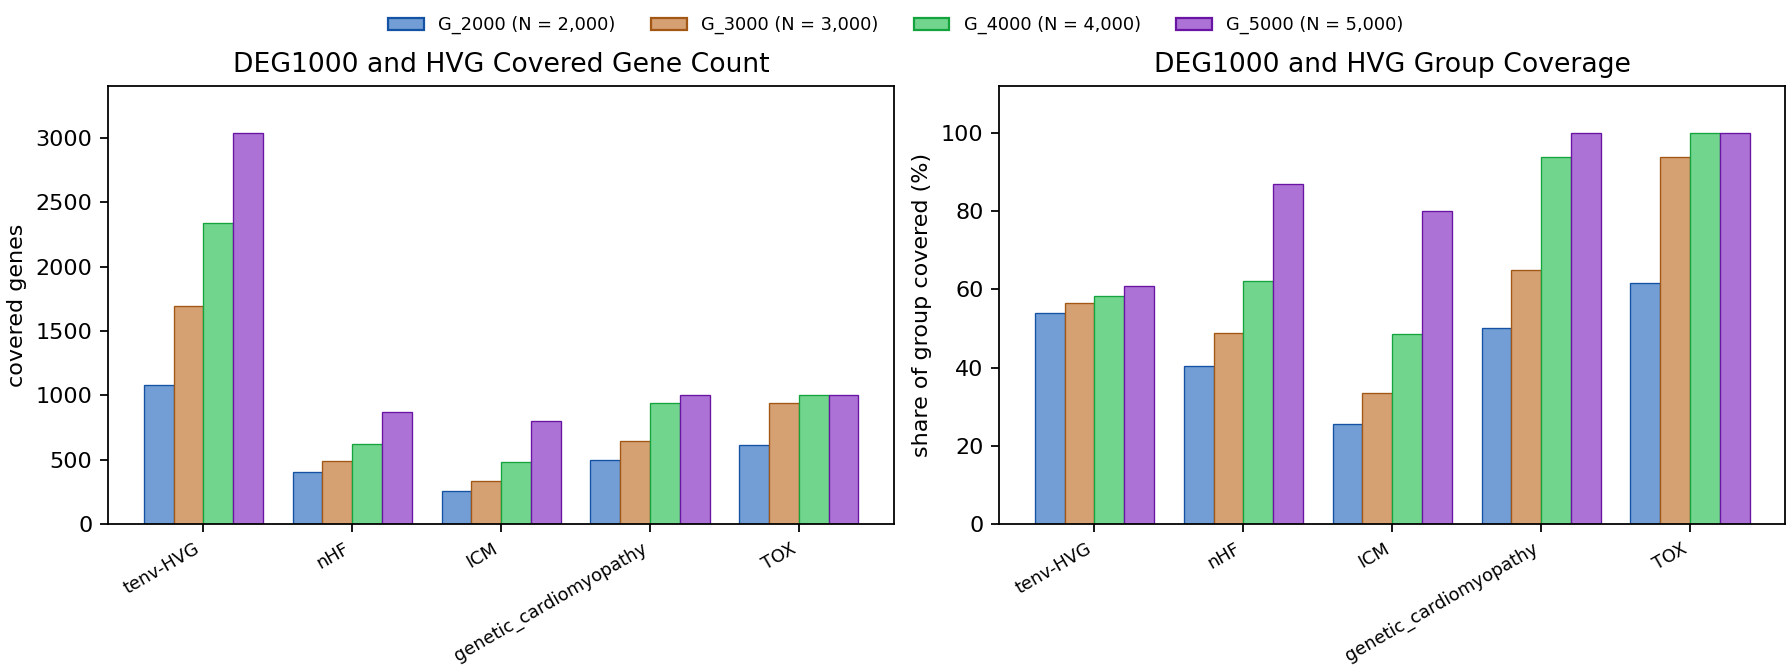
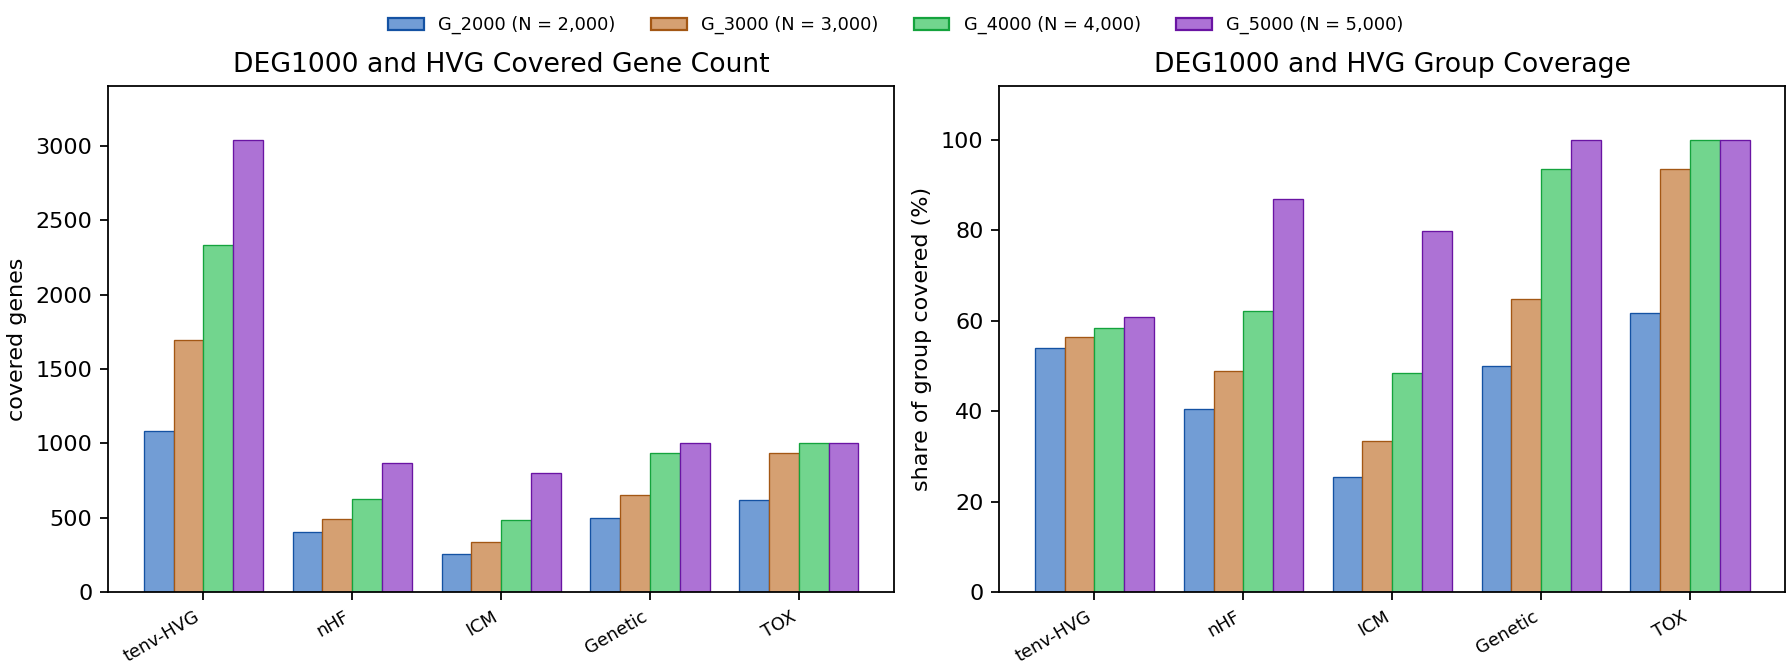
Display Genetic in Stage 2 gene-axis summaries

diff --git a/stage2/01_bases/execution/make_gene_axis_docx.py b/stage2/01_bases/execution/make_gene_axis_docx.py
@@ -540,6 +540,10 @@ def build(coverage_path, figure_path, output_path, catalogs=None, metadata=None,
     disease_rows = read_disease_table_rows(catalogs, fusion, fusion_catalog, symbols)
     _check_coverage_denominators(table, disease_rows)
 
+    display_labels = gene_axis.CATEGORY_DISPLAY_LABELS
+    for row in disease_rows:
+        row['disease'] = display_labels.get(row['disease'], row['disease'])
+
     document = Document()
     section = document.sections[0]
     section.page_width = Cm(21)
@@ -589,11 +593,12 @@ def build(coverage_path, figure_path, output_path, catalogs=None, metadata=None,
         records = [row for row in source_rows if row['category'] == category]
         if not records:
             raise ValueError(f'source table category {category!r} has no rows')
-        caption = document.add_paragraph(f'表 1 {index}　{category}' + (' 非疾病来源' if category == TENV_HVG_ROW['category'] else ' 来源数据集'))
+        caption = document.add_paragraph(f'表 1 {index}　{display_labels.get(category, category)}' + (' 非疾病来源' if category == TENV_HVG_ROW['category'] else ' 来源数据集'))
         caption.alignment = WD_ALIGN_PARAGRAPH.CENTER
         caption.paragraph_format.keep_with_next = True
         _grid(document, SOURCE_TABLE_COLUMNS,
-              [[record[name] for name in SOURCE_TABLE_COLUMNS] for record in records],
+              [[display_labels.get(category, category) if name == 'category' else record[name]
+                for name in SOURCE_TABLE_COLUMNS] for record in records],
               font_size=8.5)
         if category != TENV_HVG_ROW['category']:
             catalog_category = next(key for key in gene_axis.RELEASE_CATEGORIES
@@ -626,7 +631,7 @@ def build(coverage_path, figure_path, output_path, catalogs=None, metadata=None,
     _heading(document, '5 四档轴的疾病覆盖率').paragraph_format.page_break_before = True
     _body(document, coverage_note(disease_rows))
     coverage_rows = [
-        [str(int(record.N)), record.group_label, ('excluded' if pd.isna(record.numerator) else str(int(record.numerator))),
+        [str(int(record.N)), display_labels.get(record.group, record.group_label), ('excluded' if pd.isna(record.numerator) else str(int(record.numerator))),
          ('—' if pd.isna(record.denominator) else str(int(record.denominator))), ('—' if pd.isna(record.rate) else _percent(record.rate))]
         for record in table.itertuples(index=False)
     ]

diff --git a/stage2/01_bases/execution/tests/test_gene_axis.py b/stage2/01_bases/execution/tests/test_gene_axis.py
@@ -1417,7 +1417,8 @@ class DocxTests(unittest.TestCase):
         expected = []
         for category in gene_axis.RELEASE_CATEGORIES:
             catalog = json.loads(self.catalogs()[category].read_text(encoding='utf-8'))
-            expected.extend((catalog['category'], dataset) for dataset in catalog['datasets'])
+            expected.extend((gene_axis.CATEGORY_DISPLAY_LABELS[category], dataset)
+                            for dataset in catalog['datasets'])
         self.assertEqual(len(expected), 41)
         for offset, (category_label, dataset) in enumerate(expected, start=1):
             cells = [cell.text for cell in source_document_rows(document)[offset - 1].cells]
@@ -1477,13 +1478,13 @@ class DocxTests(unittest.TestCase):
         by_label = {record['category']: record for record in fusion['diseases']}
         rows = {row.cells[0].text: [cell.text for cell in row.cells]
                 for row in table.rows[1:]}
-        self.assertEqual(list(rows), [gene_axis.CATEGORY_LABELS[category]
+        self.assertEqual(list(rows), [gene_axis.CATEGORY_DISPLAY_LABELS[category]
                                       for category in gene_axis.RELEASE_CATEGORIES])
         for category in gene_axis.RELEASE_CATEGORIES:
             label = gene_axis.CATEGORY_LABELS[category]
             catalog = json.loads(self.catalogs()[category].read_text(encoding='utf-8'))
             record = by_label[label]
-            cells = rows[label]
+            cells = rows[gene_axis.CATEGORY_DISPLAY_LABELS[category]]
             with self.subTest(disease=label):
                 self.assertEqual(int(cells[1]), record['declared_source_count'],
                                  'source-dataset count')
@@ -1498,6 +1499,7 @@ class DocxTests(unittest.TestCase):
                                  'tier path')
         # Data-dependent exclusions and cuts are rendered from this release.
         for label, record in by_label.items():
+            label = gene_axis.CATEGORY_DISPLAY_LABELS.get(label, label)
             self.assertEqual(rows[label][5], 'yes' if record['eligible'] else 'no')
             if not record['eligible']:
                 self.assertIn('100', rows[label][6])

diff --git a/stage2/01_bases/figure/script/render_gene_axis_source_topn_coverage.py b/stage2/01_bases/figure/script/render_gene_axis_source_topn_coverage.py
@@ -41,6 +41,7 @@ _API_ROOT = Path(__file__).resolve().parents[2] / 'output' / 'api'
 if str(_API_ROOT) not in sys.path:
     sys.path.insert(0, str(_API_ROOT))
 from bases.palette import FILL_SHADE, LINE_SHADE, color  # noqa: E402
+from bases.gene_axis import CATEGORY_DISPLAY_LABELS  # noqa: E402
 
 RECORDS = ('panel', 'bar')
 #: The numeric columns a panel may draw; every bar carries both.
@@ -150,7 +151,8 @@ def render(panels, series, groups, values, output):
                          edgecolor=edge, linewidth=0.6)
                 handles.append(Patch(facecolor=fill, edgecolor=edge, label=label))
             axis.set_xticks(centres)
-            axis.set_xticklabels([label for _, label in groups], rotation=30,
+            axis.set_xticklabels([CATEGORY_DISPLAY_LABELS.get(label, label)
+                                 for _, label in groups], rotation=30,
                                  ha='right', fontsize=8)
             axis.set(ylabel=panel['y_label'], title=panel['title'])
             axis.set_ylim(0, top * 1.12)

diff --git a/stage2/01_bases/output/api/bases/gene_axis.py b/stage2/01_bases/output/api/bases/gene_axis.py
@@ -84,6 +84,7 @@ CATEGORY_LABELS = {'nhf': 'nHF', 'icm': 'ICM', 'af': 'AF',
                    'genetic_cardiomyopathy': 'genetic_cardiomyopathy',
                    'cardiotox_TOP2': 'cardiotox_TOP2',
                    'cardiotox_other': 'cardiotox_other', 'tox': 'TOX'}
+CATEGORY_DISPLAY_LABELS = {**CATEGORY_LABELS, 'genetic_cardiomyopathy': 'Genetic'}
 CATEGORY_RANK_COLUMNS = tuple(f'{category}_rank' for category in RELEASE_CATEGORIES)
 
 #: Declared released axis sizes (ADR 0066). N is chosen, never read off a curve.

diff --git a/stage2/01_bases/log/README.md b/stage2/01_bases/log/README.md
@@ -54,7 +54,12 @@ reproduction and main-checkout byte preservation. The successor sections of
 - `source_collection_candidate.json` and `tier_first_fusion_candidate.json`: full-source and tier-first fusion candidate evidence from #221/#222.
 - `source_derivation_replay.json`: sixteen genuine per-item refits, current R-worker pins, identical scientific CSV/sample bytes and deterministic gzip intermediates.
 - `four_axes_candidate.json`: #223 independent upstream and per-view replays, bounded public-reader checks, exact axes/nesting/fallback, payload map and recovery evidence.
-- `gene_axis_document_verify.json`: root DOCX and both figure hashes, canonical input/tool pins, deterministic byte replay and every one of thirteen inspected pages.
+- `gene_axis_document_verify.json`: ADR 0073 acceptance snapshot with root DOCX and both figure hashes, canonical input/tool pins, deterministic byte replay and every one of thirteen inspected pages.
+
+The 2026-11-23 display update uses **Genetic** in the source-coverage chart and
+rule document. The chart's renderer applies the label to the pinned CSV at
+display time. All 69 gene-axis tests passed, including byte-for-byte PNG and
+DOCX replay. The DOCX rendered to 13 inspected pages.
 
 The older entries/sections above describe their own dated releases. They keep
 historical names and counts; current contracts/paths are in `../README.md`.

diff --git a/stage2/01_bases/README.md b/stage2/01_bases/README.md
@@ -109,7 +109,7 @@ keeps the `deg_rank` re-export contract the accepted gene-axis evidence and
 ### Complete disease evidence (ADR 0073)
 
 The five category directories under `output/disease-deg/` contain 41 dataset
-records: nHF 8, ICM 5, AF 5, genetic_cardiomyopathy 11 and TOX 12. These are
+records: nHF 8, ICM 5, AF 5, Genetic 11 and TOX 12. These are
 **dataset records, not 41 independent physical studies**: shared control groups,
 disease arms and per-donor pooling are explicit in each catalog. All qualifying
 declared tiers are processed without a cumulative DEG-count stop. Dated
@@ -158,7 +158,7 @@ original `gene_index` ascending, and assign contiguous ranks `1..n_d`.
 | nHF | 8 | 1,785 | 1,000 | yes |
 | ICM | 5 | 1,671 | 1,000 | yes |
 | AF | 5 | 25 | 25 | no, fewer than 100 |
-| genetic_cardiomyopathy | 11 | 4,399 | 1,000 | yes |
+| Genetic | 11 | 4,399 | 1,000 | yes |
 | TOX | 12 | 9,589 | 1,000 | yes |
 
 AF exclusion is a measured gate result, not a permanent category exception.
